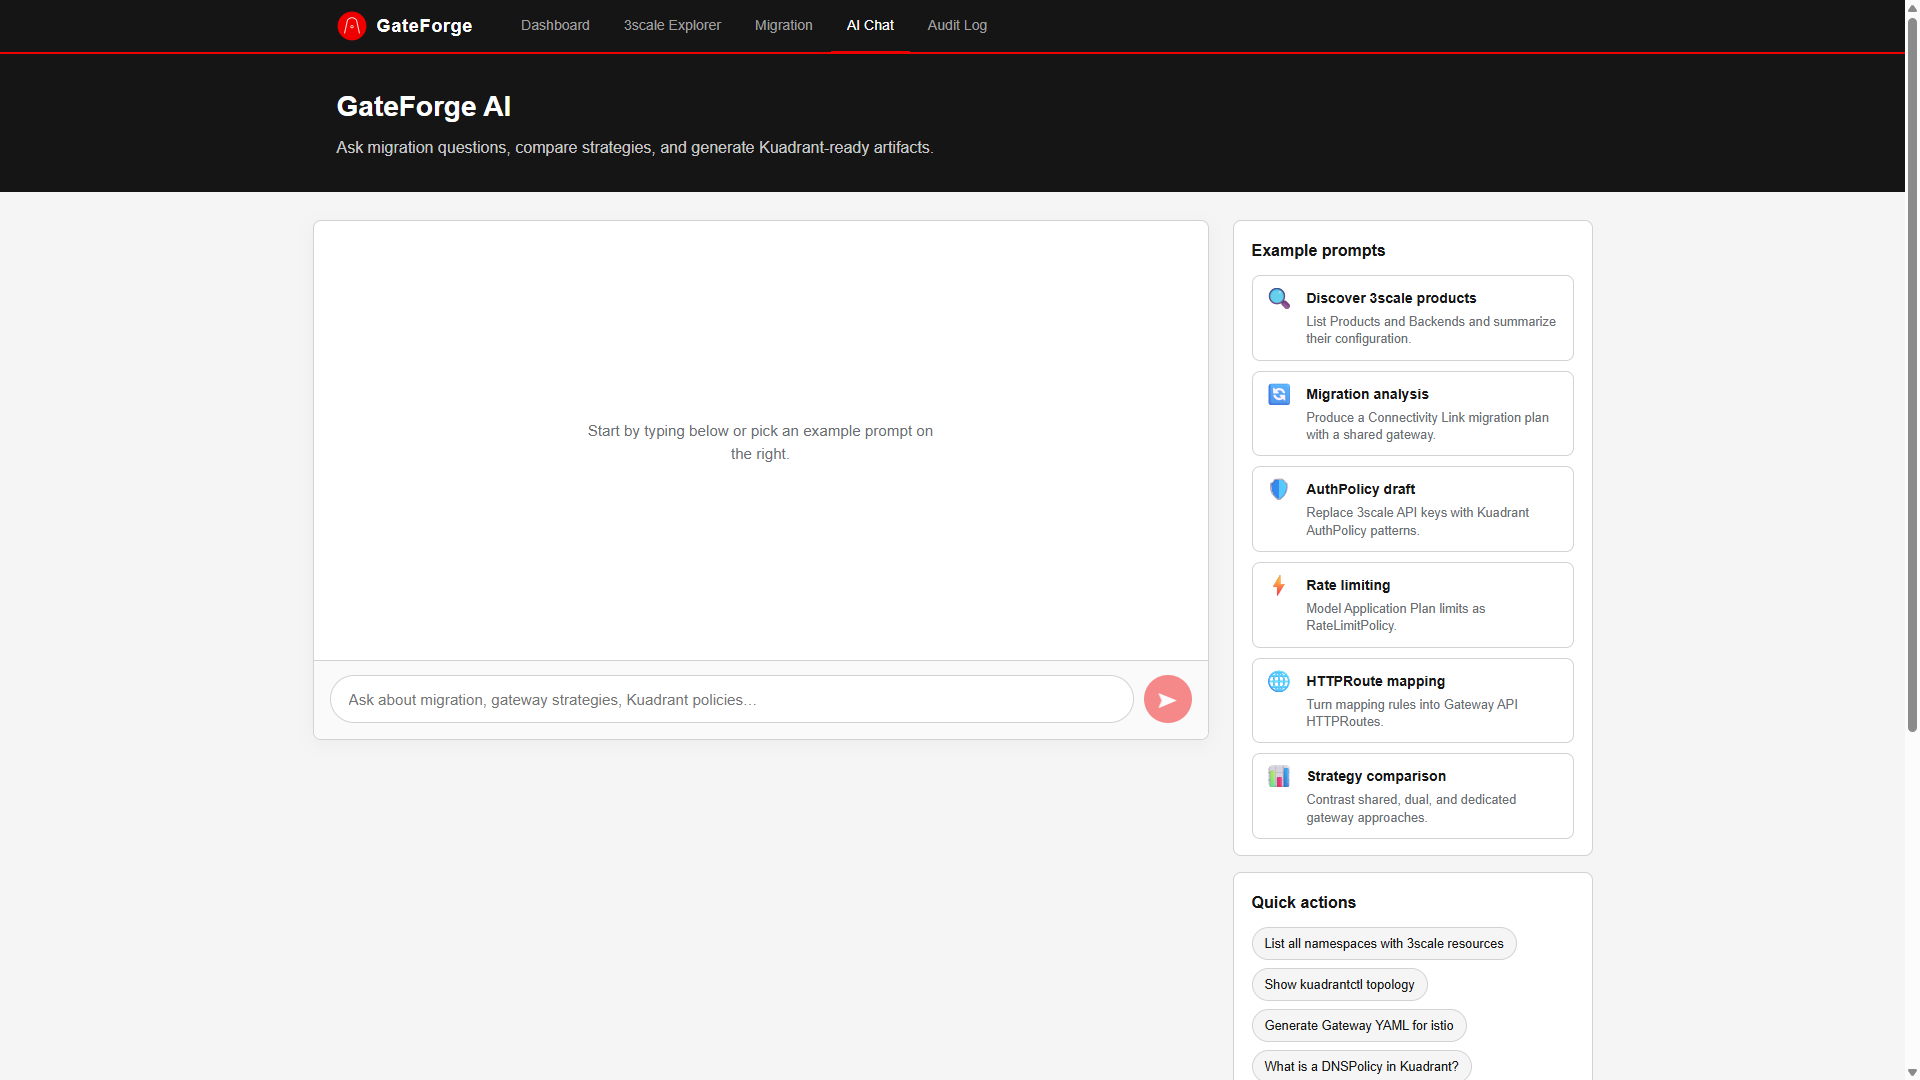
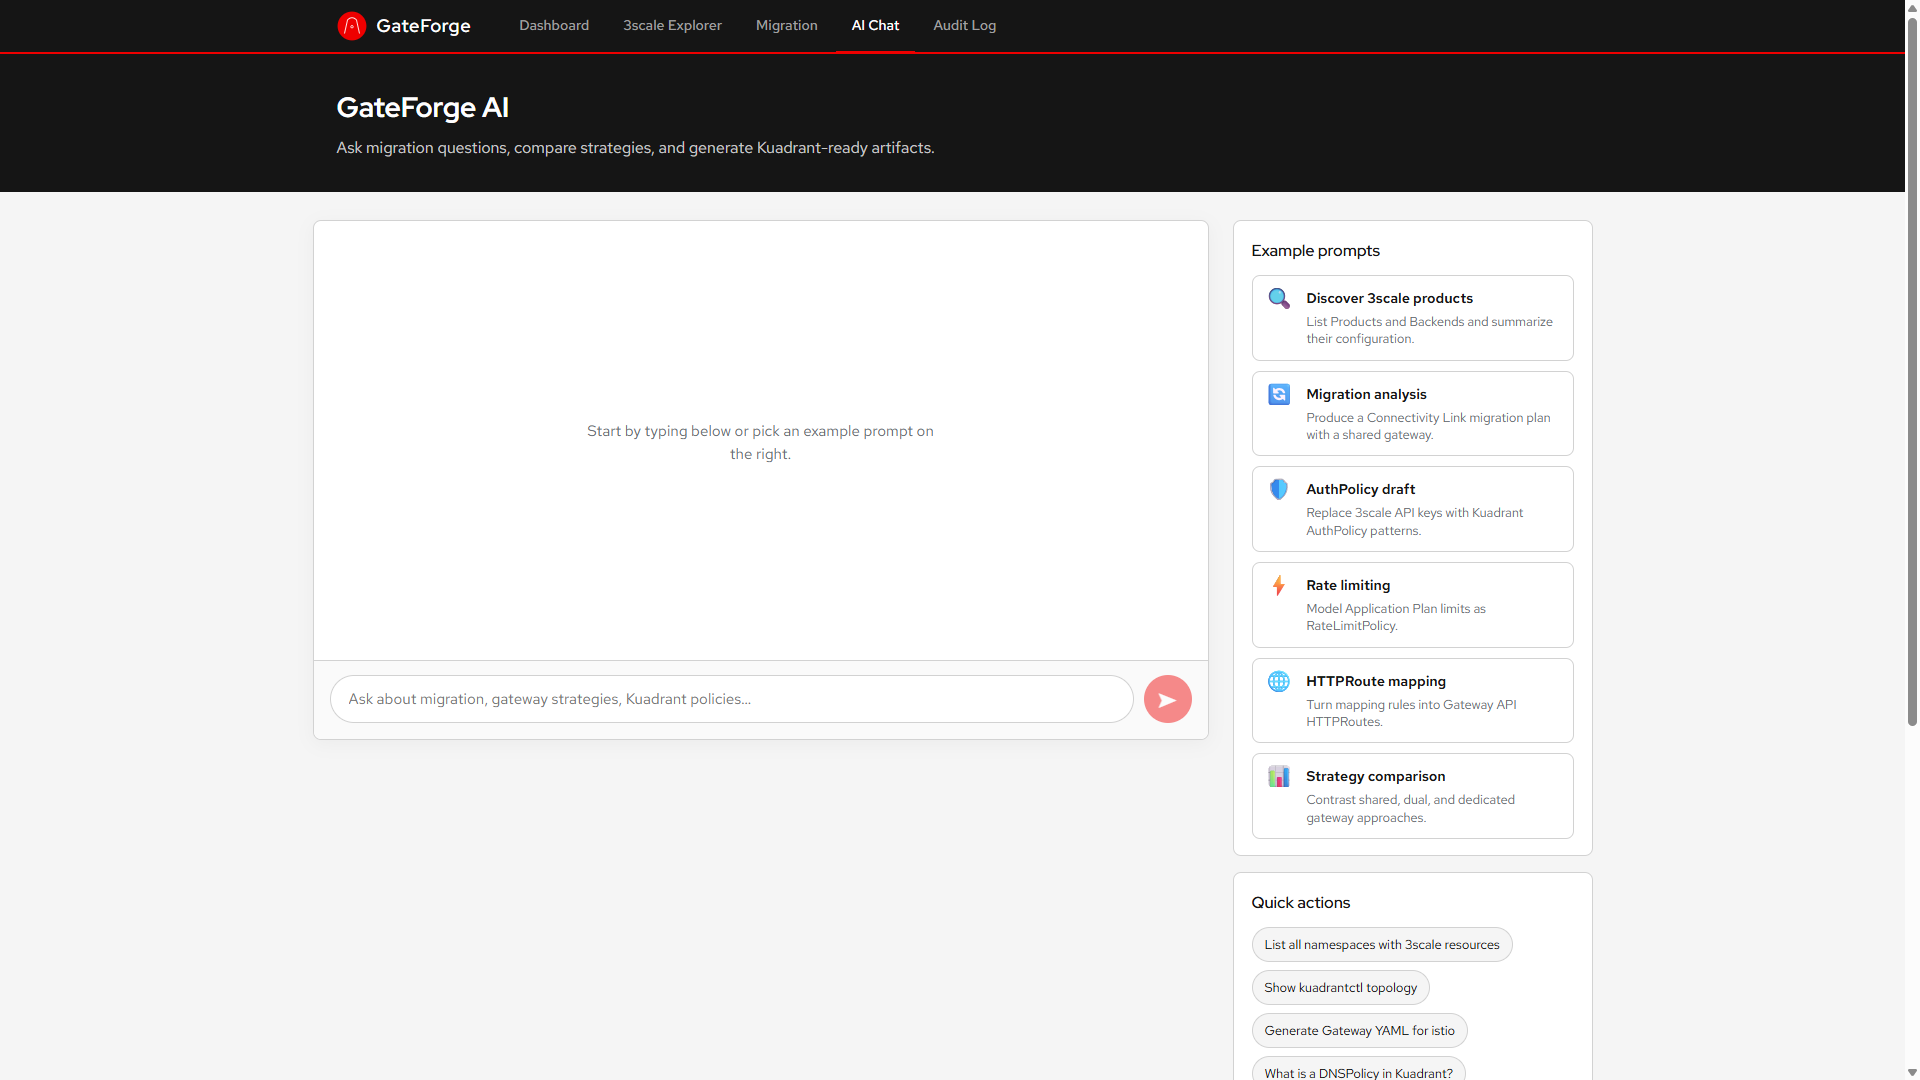
docs: replace What's New with Product Features, update screenshots
- Replace "What's New in v0.1.7" section with "Product Features"
  showcasing 8 core capabilities as product cards
- Update screenshots from live deployment
- Remove old numbered screenshots directory
- Re-package Helm chart

Made-with: Cursor

diff --git a/docs/index.html b/docs/index.html
@@ -183,22 +183,47 @@
 
   <section class="section" style="background:#f5f5f5;">
     <div class="container">
-      <h2>What's New in v0.1.7</h2>
+      <h2>Product Features</h2>
       <div class="phase-grid">
         <div class="phase-card">
-          <span class="phase-badge phase-done">Implemented</span>
-          <h4>Phase 1 &mdash; Multiple 3scale Sources</h4>
-          <p>Connect to N 3scale Admin API endpoints. Products tagged by source cluster. REST API for source management. <code>THREESCALE_SOURCES</code> env var for JSON config.</p>
+          <span class="phase-badge" style="background:#fce4ec;color:#880e4f;">AI-Powered</span>
+          <h4>Intelligent Migration Analysis</h4>
+          <p>LangChain4j-based AI agent analyzes 3scale configurations and generates equivalent Connectivity Link resources. Chat assistant with MCP tool calling for real-time cluster introspection.</p>
         </div>
         <div class="phase-card">
-          <span class="phase-badge phase-done">Implemented</span>
-          <h4>Phase 2 &mdash; Multi-Cluster Deployment</h4>
-          <p>Target cluster selector in Migration Wizard. ArgoCD cluster secret auto-discovery. Per-cluster RBAC validation. Dynamic Fabric8 KubernetesClient per target.</p>
+          <span class="phase-badge" style="background:#e0ecff;color:#0066cc;">Discovery</span>
+          <h4>Automatic 3scale Discovery</h4>
+          <p>Discovers Products, Backends, Mapping Rules, and ActiveDocs via both CRD inspection and Admin API. Supports connecting to multiple 3scale instances simultaneously.</p>
         </div>
         <div class="phase-card">
-          <span class="phase-badge phase-done">Implemented</span>
-          <h4>Phase 3 &mdash; Hub-Spoke Architecture</h4>
-          <p>PostgreSQL persistence for plans and audit. <strong>Flyway</strong> versioned schema migrations. Federated audit log with filtering. Hub overview API. Topology graph of all clusters and sources.</p>
+          <span class="phase-badge" style="background:#e6f5e0;color:#2d6b24;">Generation</span>
+          <h4>Gateway API Resource Generation</h4>
+          <p>Generates Gateway, HTTPRoute, AuthPolicy, and RateLimitPolicy resources with configurable strategies: shared, dual, or dedicated gateways per product.</p>
+        </div>
+        <div class="phase-card">
+          <span class="phase-badge" style="background:#fff3e0;color:#e65100;">Multi-Cluster</span>
+          <h4>Multi-Cluster Deployment</h4>
+          <p>Apply migrations to any target OpenShift cluster. ArgoCD cluster secret auto-discovery. Per-cluster RBAC validation via SelfSubjectAccessReview.</p>
+        </div>
+        <div class="phase-card">
+          <span class="phase-badge" style="background:#e8eaf6;color:#283593;">Hub-Spoke</span>
+          <h4>Centralized Control Plane</h4>
+          <p>PostgreSQL-backed persistence with Flyway migrations. Federated audit log across clusters. Hub overview API with aggregated stats and topology graph.</p>
+        </div>
+        <div class="phase-card">
+          <span class="phase-badge" style="background:#fce4ec;color:#880e4f;">Revert</span>
+          <h4>Safe Rollback to 3scale</h4>
+          <p>One-click revert of individual plans or bulk revert to restore 3scale management. Full audit trail with before/after YAML snapshots for every operation.</p>
+        </div>
+        <div class="phase-card">
+          <span class="phase-badge" style="background:#e0ecff;color:#0066cc;">GitOps</span>
+          <h4>Helm Chart &amp; ArgoCD Ready</h4>
+          <p>Packaged as a Helm chart on Artifact Hub. Deploys backend, frontend, and PostgreSQL with least-privilege RBAC. ArgoCD-native with selfHeal support.</p>
+        </div>
+        <div class="phase-card">
+          <span class="phase-badge" style="background:#e6f5e0;color:#2d6b24;">Developer Hub</span>
+          <h4>Backstage Integration</h4>
+          <p>Generates <code>catalog-info.yaml</code> for Red Hat Developer Hub. Registers migrated APIs as Backstage entities with Kuadrant annotations.</p>
         </div>
       </div>
     </div>
@@ -272,19 +297,19 @@
           <h4>3scale Explorer &mdash; Products &amp; Backends</h4>
         </div>
         <div class="screenshot" onclick="openLightbox(this)">
-          <img src="assets/screenshots/migration-step1.png" alt="Migration Wizard" loading="lazy">
+          <img src="assets/screenshots/migration-wizard.png" alt="Migration Wizard" loading="lazy">
           <span class="zoom-hint">Click to enlarge</span>
           <h4>Migration Wizard &mdash; Product Selection</h4>
         </div>
         <div class="screenshot" onclick="openLightbox(this)">
           <img src="assets/screenshots/chat-assistant.png" alt="AI Chat Assistant" loading="lazy">
           <span class="zoom-hint">Click to enlarge</span>
-          <h4>AI Chat Assistant</h4>
+          <h4>AI Chat &mdash; Migration Assistant</h4>
         </div>
         <div class="screenshot" onclick="openLightbox(this)">
           <img src="assets/screenshots/audit-log.png" alt="Audit Log" loading="lazy">
           <span class="zoom-hint">Click to enlarge</span>
-          <h4>Audit Log</h4>
+          <h4>Audit Log &mdash; Migration Trail</h4>
         </div>
       </div>
     </div>
